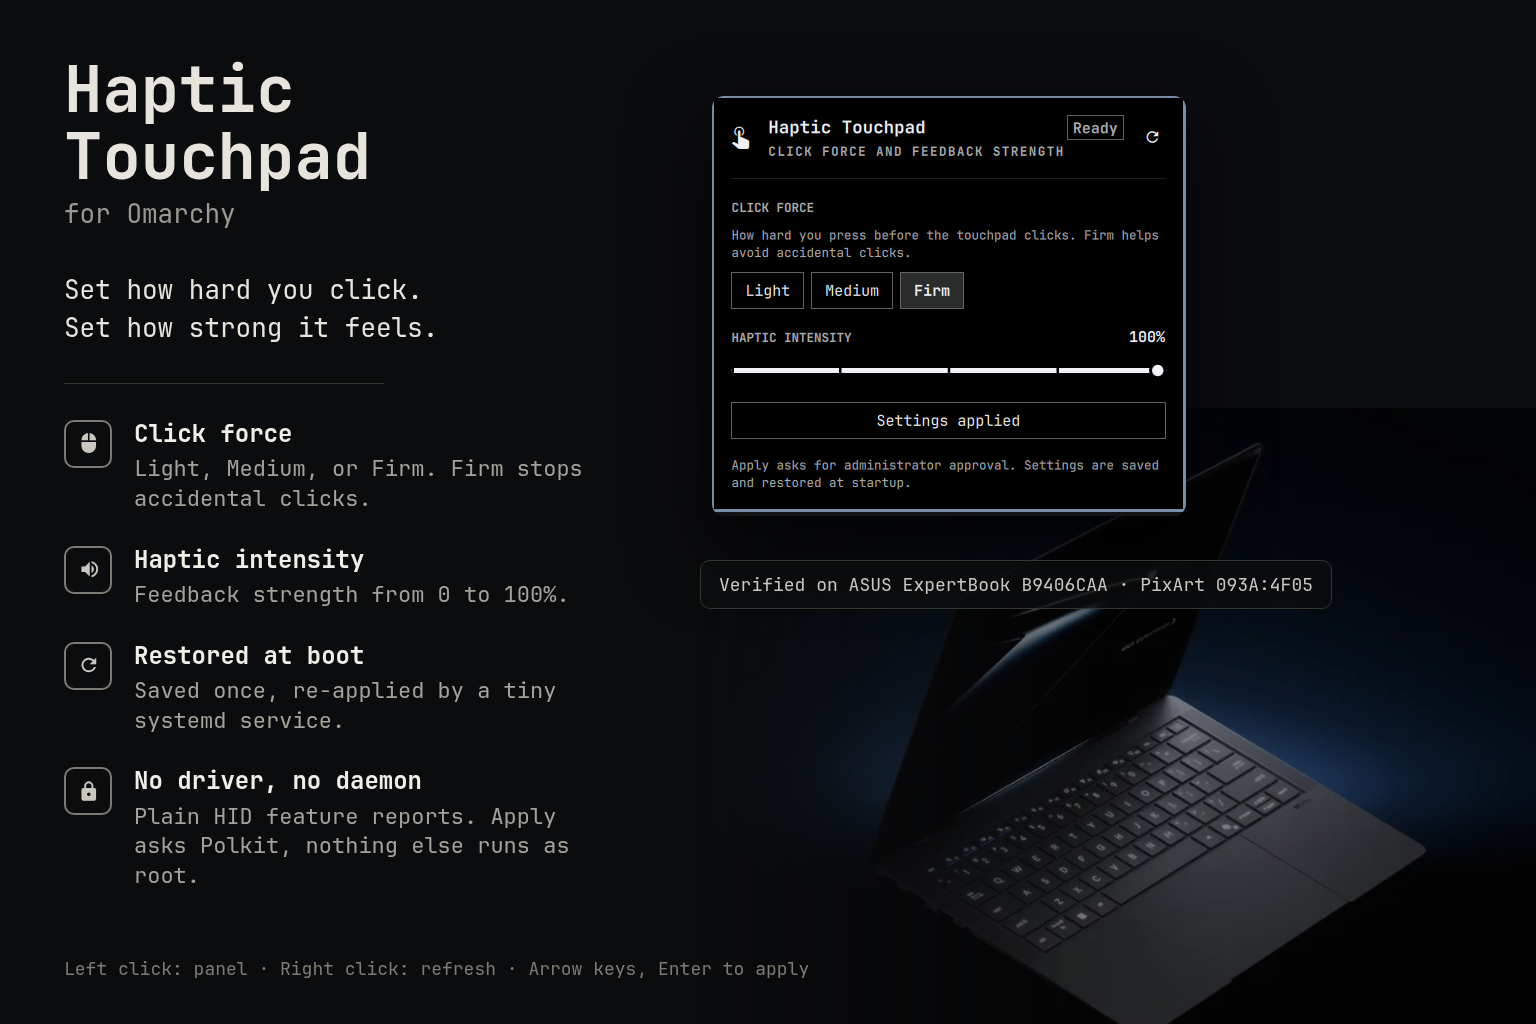
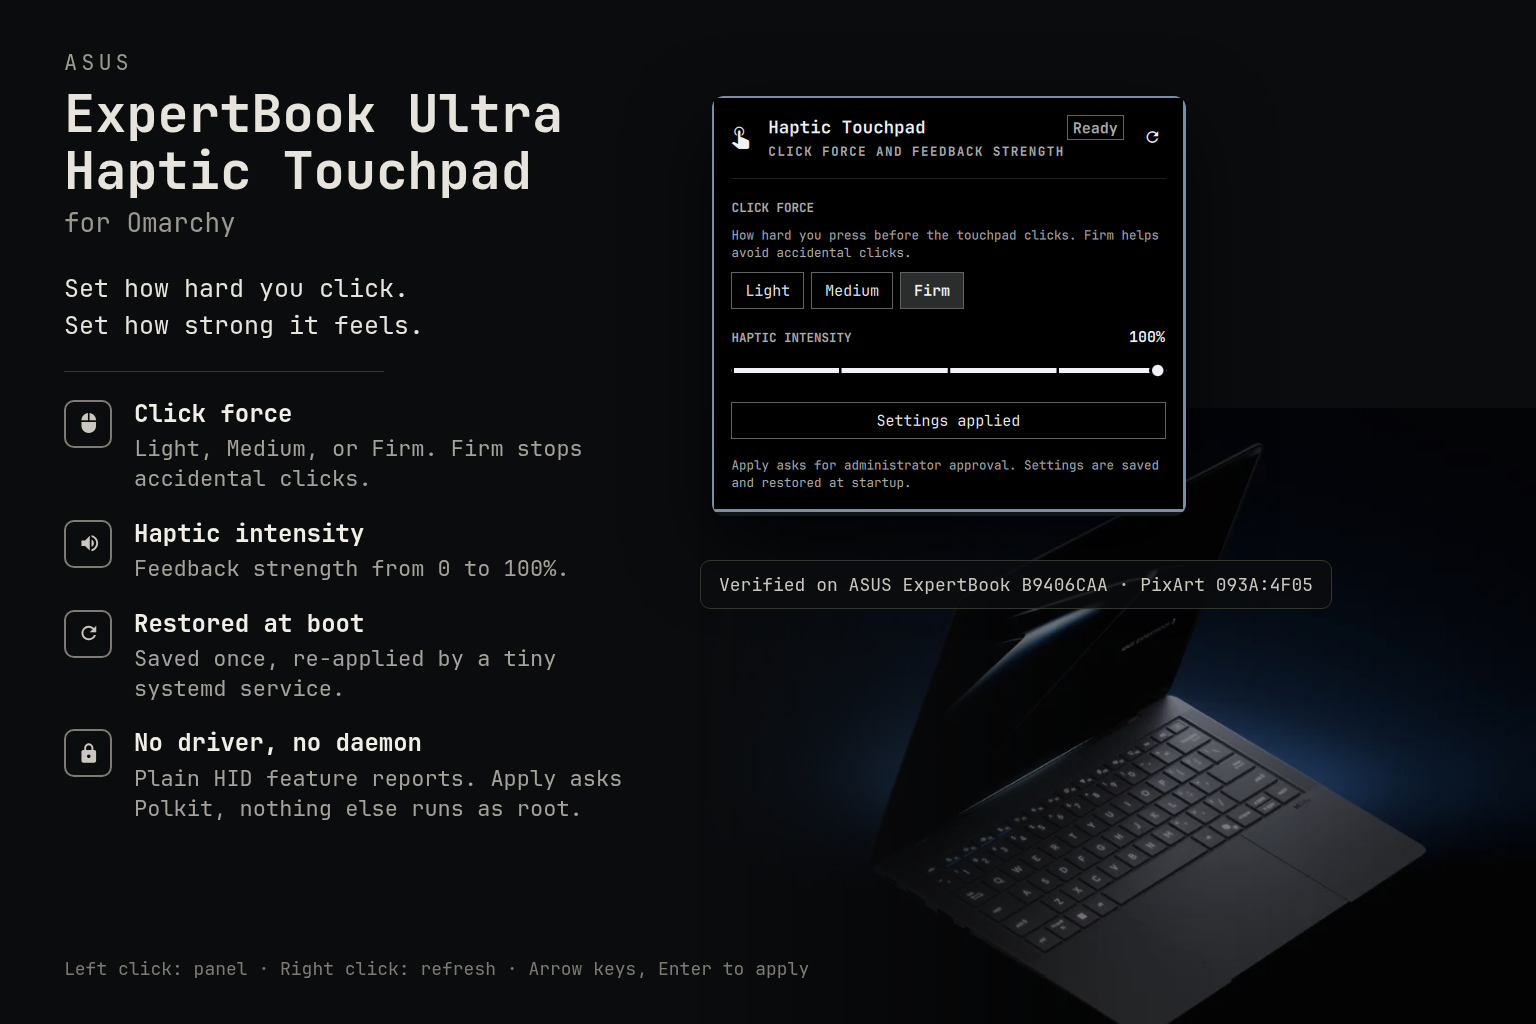
Name the plugin after the laptop it supports
Title the banner, manifest, and README as ASUS ExpertBook Ultra Haptic
Touchpad so the marketplace listing is not mistaken for the Dell XPS
haptics that Omarchy ships itself.

Changed region(s): [[0.0312, 0.375, 0.4062, 0.875], [0.0312, 0.0625, 0.375, 0.2188], [0.0312, 0.25, 0.2812, 0.3438]]

diff --git a/README.md b/README.md
@@ -1,6 +1,6 @@
-# Haptic Touchpad
+# ASUS ExpertBook Ultra Haptic Touchpad
 
-An [Omarchy](https://omarchy.org) bar widget for the PixArt `093A:4F05` haptic touchpad. It sets how hard you press before the touchpad clicks and how strong the click feedback feels. Settings apply immediately and are restored at startup.
+An [Omarchy](https://omarchy.org) bar widget for the haptic touchpad in the ASUS ExpertBook Ultra B9406CAA, a PixArt `093A:4F05` controller. It is not for Dell XPS haptic touchpads; Omarchy handles those itself. It sets how hard you press before the touchpad clicks and how strong the click feedback feels. Settings apply immediately and are restored at startup.
 
 Verified on the ASUS ExpertBook B9406CAA. Other laptops must have the same touchpad controller; see [COMPATIBILITY.md](COMPATIBILITY.md) for the hardware check and a four-step test.
 
